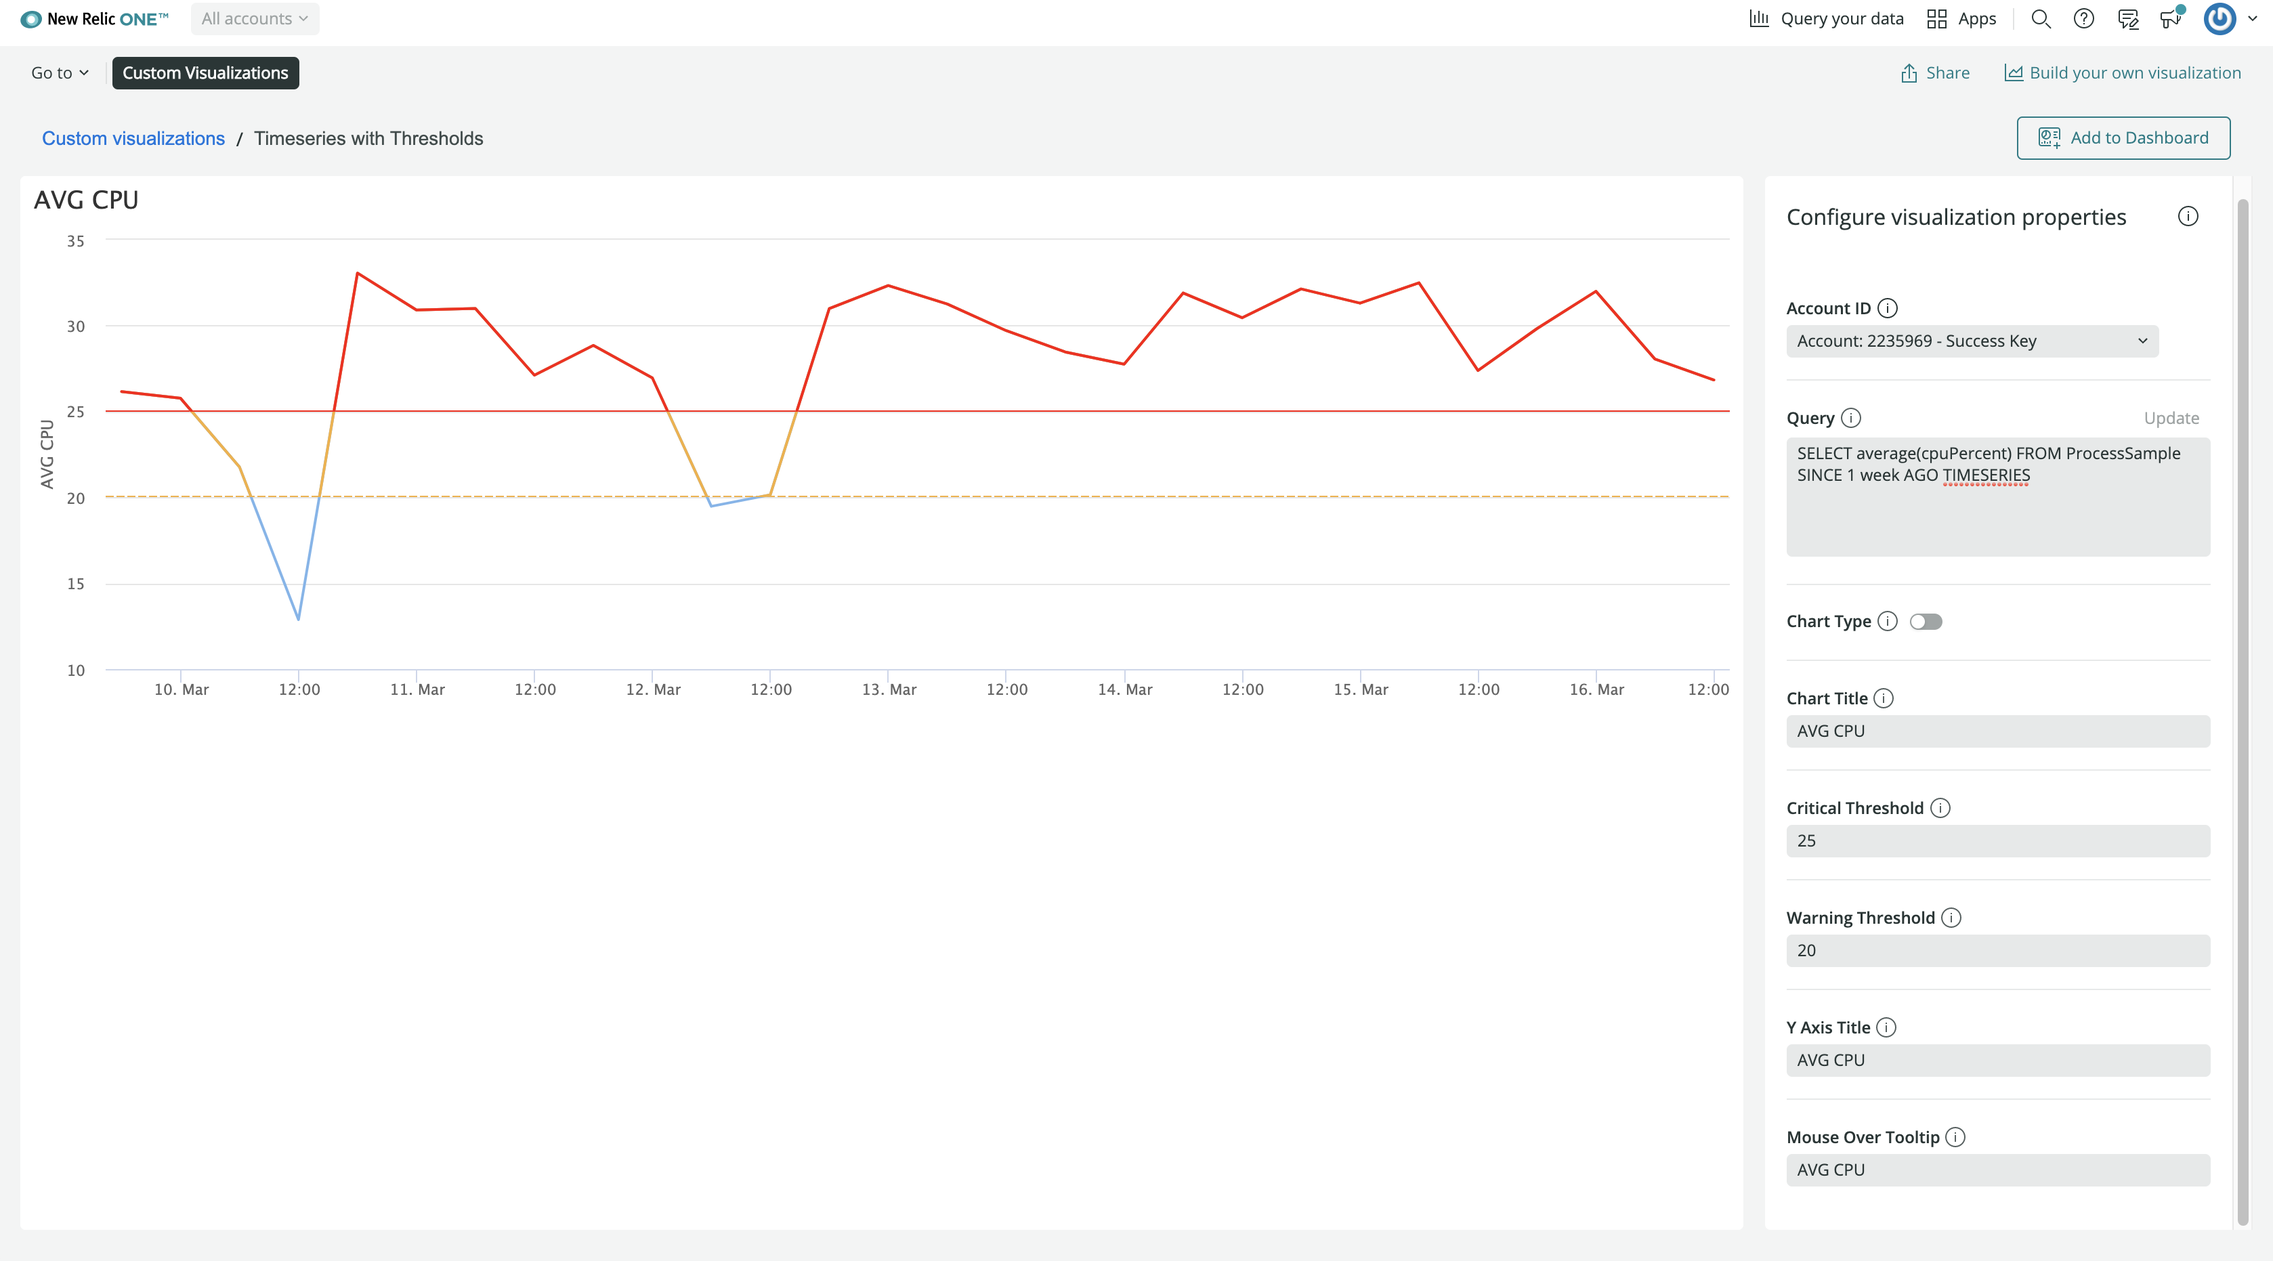
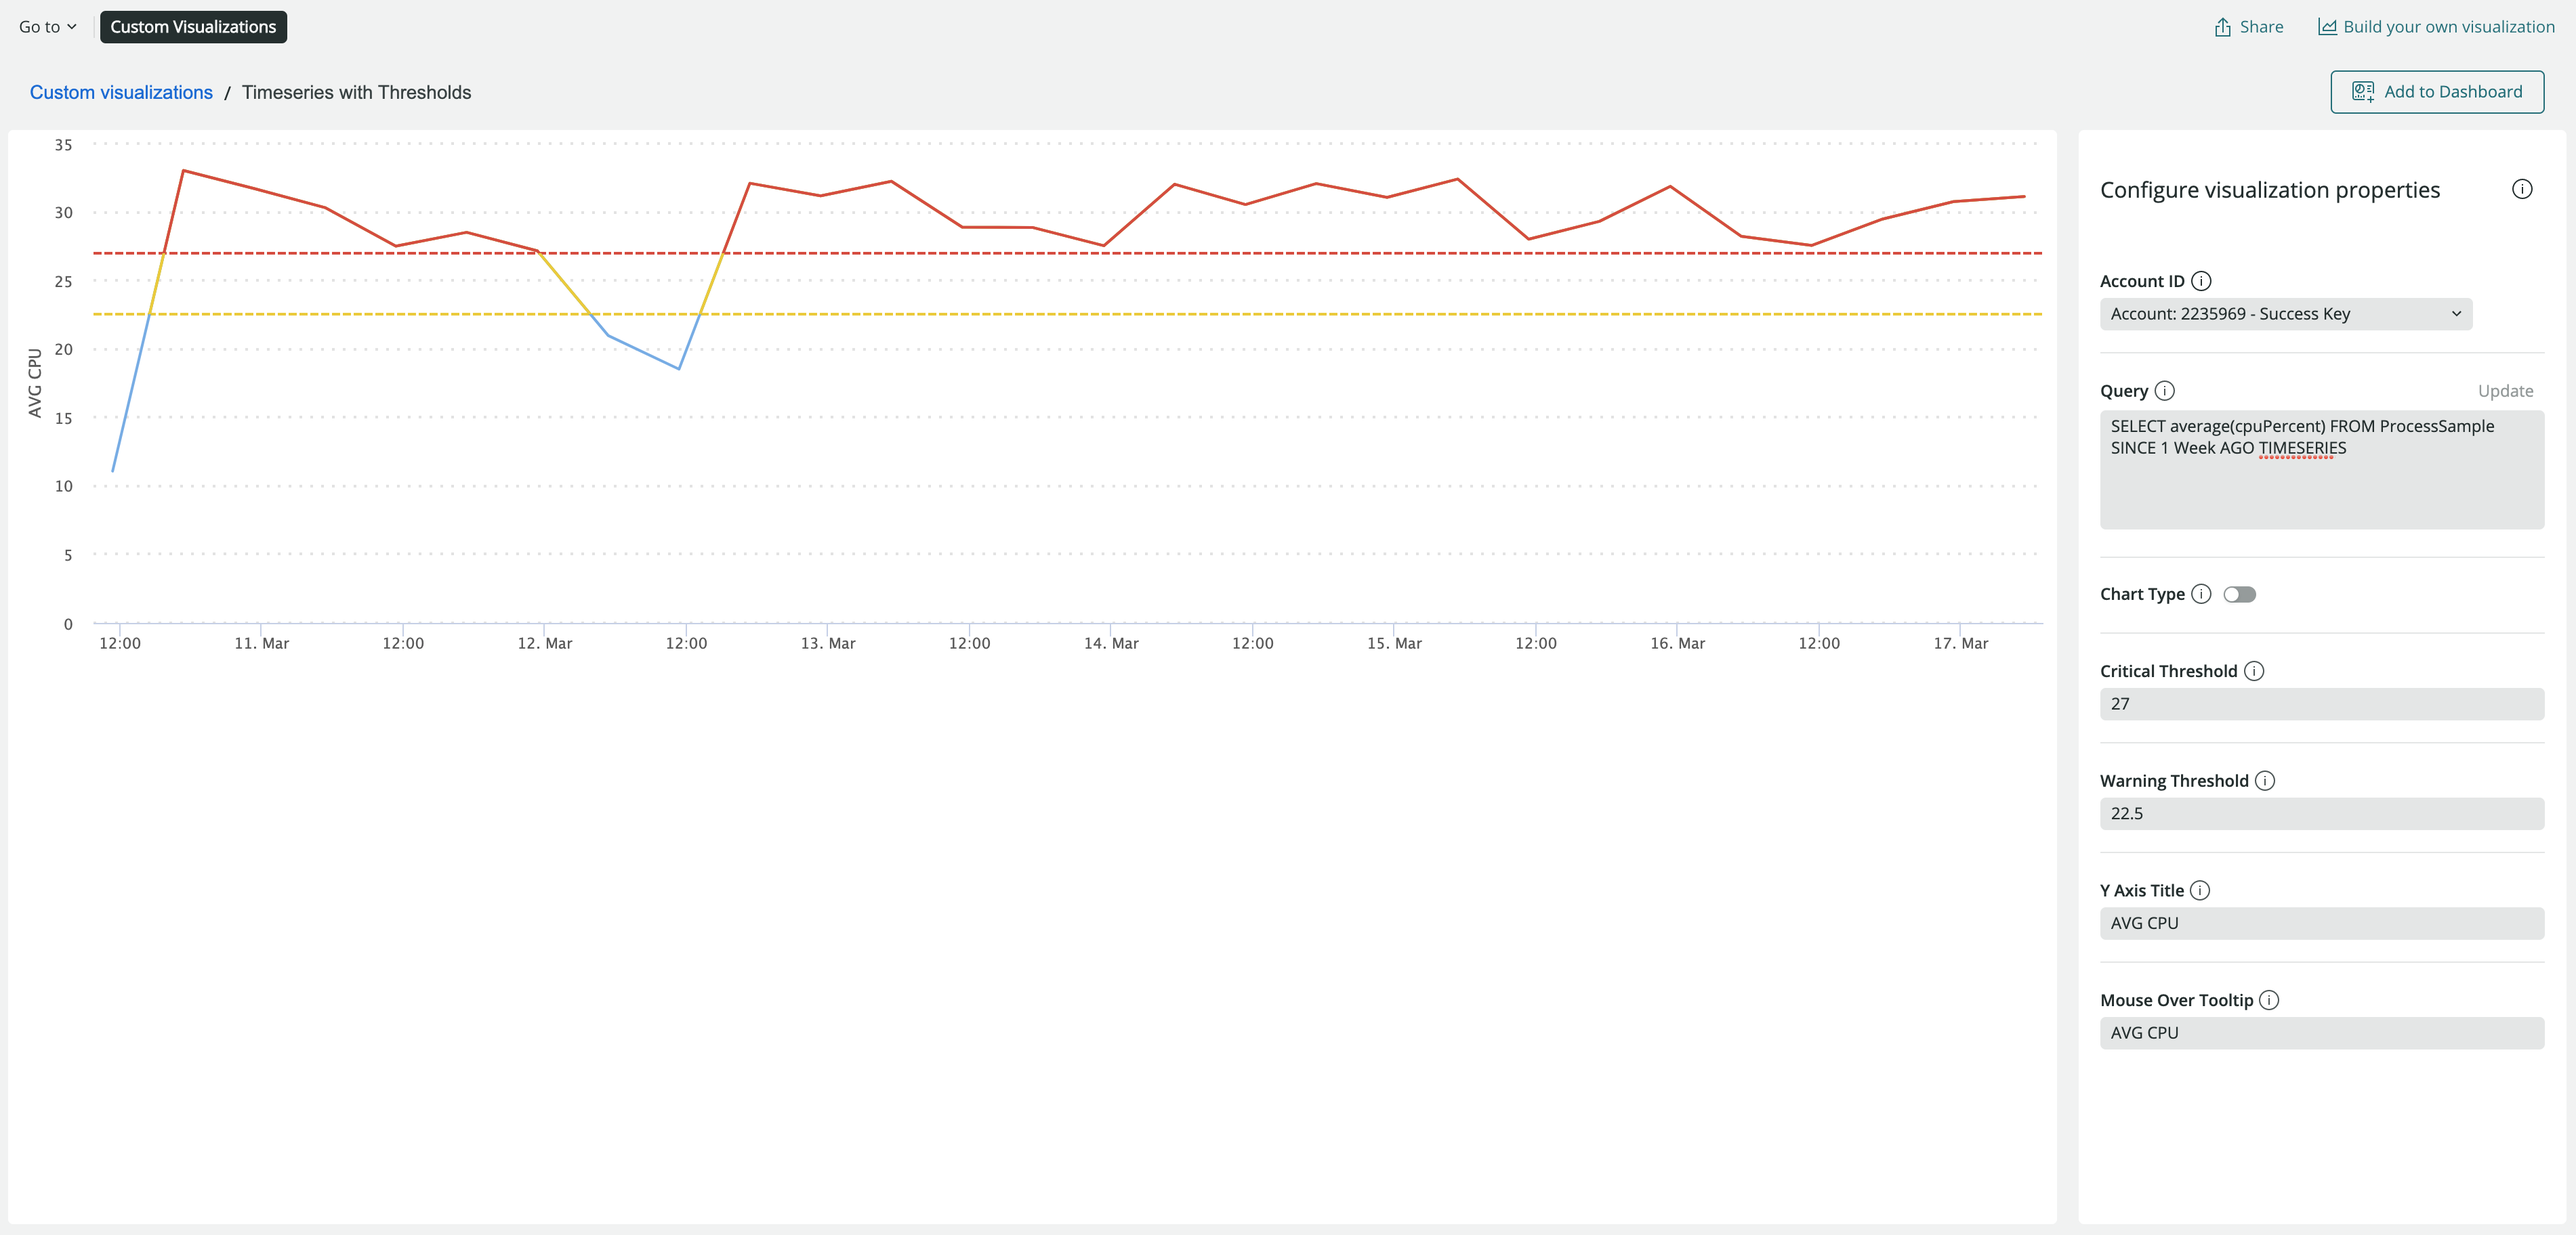
added new colour codes, removed title

diff --git a/visualizations/timeseries-threshold/index.js b/visualizations/timeseries-threshold/index.js
@@ -10,7 +10,6 @@ export default class TimeseriesThresholdVisualization extends React.Component {
   static propTypes = {
     accountId: PropTypes.number,
     query: PropTypes.string,
-    title: PropTypes.string,
     critical: PropTypes.string,
     warning: PropTypes.string,
     yAxis: PropTypes.string,
@@ -33,7 +32,7 @@ export default class TimeseriesThresholdVisualization extends React.Component {
 
   render() {
 
-    const { accountId, query, warning, critical, title, yAxis, MouseoverTooltip, chartType } = this.props;
+    const { accountId, query, warning, critical, yAxis, MouseoverTooltip, chartType } = this.props;
     if (!query) {
       return <EmptyState />;
     }
@@ -76,24 +75,24 @@ export default class TimeseriesThresholdVisualization extends React.Component {
                     legend: {
                       enabled: false
                     },
-                    title: {
-                      text: title,
-                      align: 'left'
-                    },
+                    title: false,
                     xAxis: {
                       type: 'datetime'
                     },
                     yAxis: {
+                      gridLineDashStyle: 'Dot',
+                      gridLineWidth: '2',
                       min: 0,
                       title: {
                         text: yAxis
                       },
                       plotLines: [{
-                        color: '#FF0000',
+                        color: '#E54943',
                         width: 2,
+                        dashStyle: 'shortdash',
                         value: parseFloat(critical)
                       }, {
-                        color: '#F5B038',
+                        color: '#F0D100',
                         width: 2,
                         dashStyle: 'shortdash',
                         value: parseFloat(warning)
@@ -116,19 +115,19 @@ export default class TimeseriesThresholdVisualization extends React.Component {
                     },
                     series: [
                       {
-                        name: MouseoverTooltip,
+                        name: MouseoverTooltip ? MouseoverTooltip : 'Value',
                         data: transformedData
                       }, {
-                        name: MouseoverTooltip,
+                        name: MouseoverTooltip ? MouseoverTooltip : 'Value',
                         data: transformedData,
-                        color: '#F5B038',
+                        color: '#F0D100',
                         negativeColor: 'transparent',
                         threshold: parseFloat(warning)
                       }, {
                         //The CRITICAL threshold should come after in the array
-                        name: MouseoverTooltip,
+                        name: MouseoverTooltip ? MouseoverTooltip : 'Value',
                         data: transformedData,
-                        color: '#FF0000',
+                        color: '#E54943',
                         negativeColor: 'transparent',
                         threshold: parseFloat(critical)
                       },]
